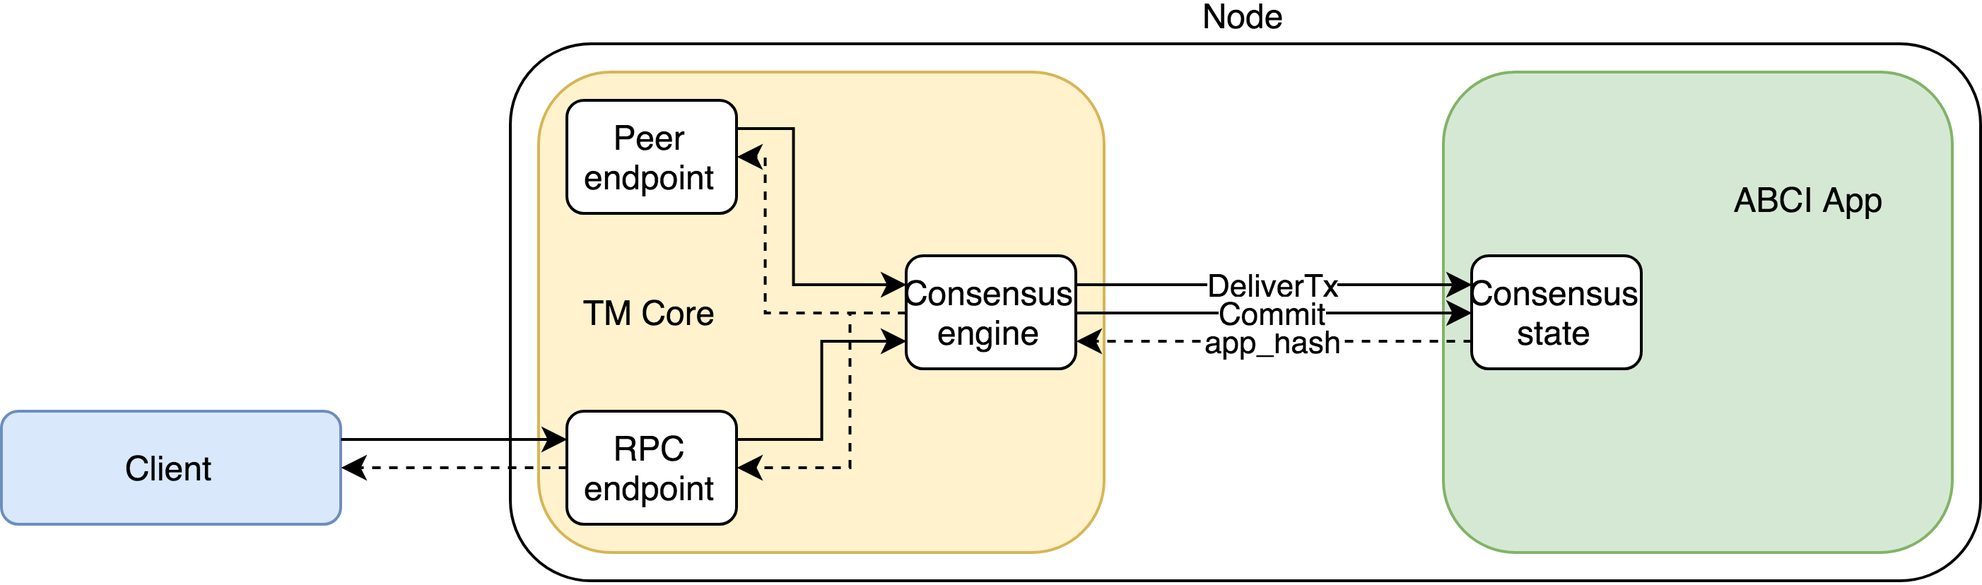
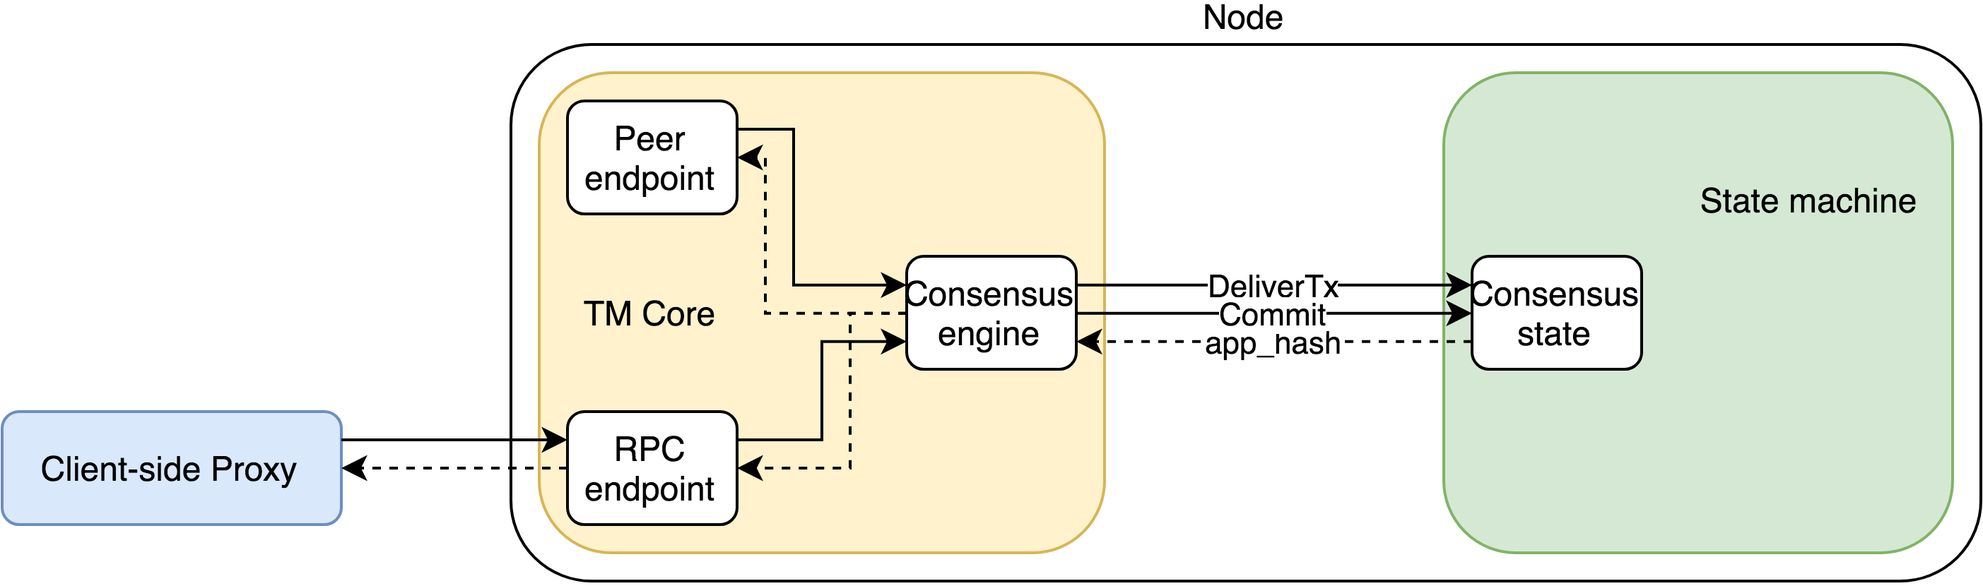
doc and built-in function changes

diff --git a/parse/parse_chain.py b/parse/parse_chain.py
@@ -41,7 +41,8 @@ for height in range(minheight, maxheight + 1):
 					txsummary += "%30s " % txstr
 			if len(txs) > 5:
 				txsummary += "..."
-		print "%5s: %s %7d %7d" % (height, datetime.datetime.fromtimestamp(blocktime), numtxs, totaltxs), "0x" + app_hash[0:6], txsummary
+		app_hash_to_show = "0x" + app_hash[0:6] if app_hash != "" else "--------"
+		print "%5s: %s %7d %7d" % (height, datetime.datetime.fromtimestamp(blocktime), numtxs, totaltxs), app_hash_to_show, txsummary
 	else:
 		if height == lastnonempty + 2:
 			print "..."

diff --git a/tmdemoapp/docs/README.md b/tmdemoapp/docs/README.md
@@ -4,7 +4,7 @@ This demo application shows how verifiable computations might be processed by a 
 
 Results of each computation are stored on the cluster nodes and can be later on retrieved by the client. The storage of the results is secured with Merkle proofs, so malicious nodes can't substitute them with bogus data.
 
-Because every computation is verified by the cluster nodes and computation outcomes are verified using Merkle proofs, the client normally doesn't have to interact with the entire cluster. Moreover, the client can interact with as little as a single node – this won't change safety properties. However, liveness might be compromised – for example if the node the client is interacting with is silently dropping incoming requests.
+Because every computation is verified by the cluster nodes and computation outcomes are verified using Merkle proofs, the client normally doesn't have to interact with the entire cluster. Moreover, the client can interact with as little as a single node – this won't change safety properties. However, liveness might be compromised – for example, if the node the client is interacting with is silently dropping incoming requests.
 
 ![Nodes in cluster](cluster_nodes.png)
 
@@ -17,7 +17,7 @@ The application is a proof-of-concept of a distributed system with the following
 * Extremely low probability of consistency violation.
 
 ## Architecture overview
-The entire application is distributed over set of machines having the following roles:
+The entire application is distributed over a set of machines having the following roles:
 * client-side **Proxy**, which originates the requests to the cluster
 * cluster **Node**, which serves the requests
 * the **Judge**, which is in charge of resolving complicated disagreements between nodes
@@ -26,15 +26,15 @@ The application uses blockchain approach to decompose the application logic into
 * replicated transaction log
 * state machine with the domain-specific logic
 
-This decomposition allows to simplify development process. This modularization is not only logical but also physical: transaction log and state machine run in separate processes, implemented in different languages.
+This decomposition allows simplifying the development process. This modularization is not only logical but also physical: transaction log and state machine run in separate processes, implemented in different languages.
 
 The application uses [Tendermint](https://github.com/tendermint/tendermint) platform which provides replicated transaction log components (**TM Core**), in particular:
 * distributed transaction cache (**Mempool**)
 * blockchain (to store transactions persistently)
-* Byzantine-resistant **Consensus** logic (to reach agreement about the order of transactions)
-* peer-to-peer layer to communicate with another nodes
-* RPC endpoint for client requests
-* **Query proxy** for making requests to the current state
+* Byzantine-resistant **Consensus** engine (to reach agreement about the order of transactions)
+* peer-to-peer layer to communicate with other nodes
+* **RPC endpoint** for client requests
+* **Query processor** for making requests to the current state
 
 To perform domain-specific logic the application uses its own **State machine** implementing Tendermint's [ABCI interface](http://tendermint.readthedocs.io/projects/tools/en/master/abci-spec.html) to follow Tendermint's architecture. It is written in Scala 2.12, compatible with `Tendermint v0.19.x` and uses `com.github.jtendermint.jabci` for Java ABCI definitions.
 
@@ -50,19 +50,19 @@ The **State machine** maintains its state using in-memory key-value string stora
 ![Key-values in cluster](cluster_key_value.png)
 
 ### Operations
-Tendermint architecture supposes that the client typically interacts with the Application via the local **Proxy**. This application uses Python `query.py` script as client-side Proxy to request arbitrary operations to the cluster, including:
+Tendermint architecture supposes that the client typically interacts with the Application via the local **Proxy**. This application uses Python `query.py` script as client-side Proxy to request arbitrary operations from the cluster, including:
 * Simple `put` requests which specify a target key and a constant as its new value: `put a/b=10`.
-* Computational `put` requests which specify that a target key should be assigned to the result of some operation (with arguments) invocation: `put a/c=factorial(a/b)`.
-* Requests to obtain a result of running an arbitrary operation: `run factorial(a/b)`, `run sum(a/b,a/c)`.
+* Computational `put` requests which specify that a target key should be assigned to the result of some function (with arguments) invocation: `put a/c=factorial(a/b)`.
+* Requests to obtain a result of running an arbitrary function: `run factorial(a/b)`, `run sum(a/b,a/c)`.
 * Requests to read the value of specified key: `get a/b`.
 
-`get` operations do not change the state of the application. They are implemented via Tendermint **ABCI queries**. As the result of a such query the **State machine** returns the value of the requested key together with the Merkle proof.
+`get` operations do not change the state of the application. They are implemented via Tendermint **ABCI queries**. As the result of such query the **State machine** returns the value of the requested key together with the Merkle proof.
 
-`put` operations are *effectful* and change the application state explicitly. They are implemented via Tendermint **transactions** that combined into **blocks**. **TM Core** sends a transaction to the **State machine** and the **State machine** applies this transaction to its state, typically changing the target key.
+`put` operations are *effectful* and change the application state explicitly. They are implemented via Tendermint **transactions** that combined into **blocks**. **TM Core** sends a transaction to the **State machine** and the **State machine** applies this transaction to its state, typically changing the associated value of the target key.
 
-`get` and `put` operations use different techniques to prove to the client that the operation is actually invoked and its result is correct. `get`-s take advantage of Merkelized structure of the application state and provide Merkle proof of the result correctness. Any `put` invocation leads to adding the corresponding transaction to the blockchain, so observing this transaction in a correctly signed block means that there is a quorum in the cluster regarding this transaction's invocation.
+`get` and `put` operations use different techniques to prove to the client that the operation is actually invoked and its result is correct. `get` takes advantage of *merkelized* structure of the application state and provides Merkle proof of the result correctness. Any `put` invocation leads to adding the corresponding transaction to the blockchain. The presence of this transaction in a correctly signed block means that there is a quorum in the cluster regarding this transaction.
 
-`run` operations are also *effectul*. They are implemented as combinations of `put` and `get` requests: to perform operation trustfully, **Proxy** first requests `put`-ting the result of operation to some key and then queries its value. Thus the correctness is ensured by both the consensus and Merkle proof.
+`run` operations are also *effectul*. They are implemented as combinations of `put` and `get` requests: to perform such operation trustfully, **Proxy** first requests `put`-ting the result of the requested function to some key and then queries its value. Thus the correctness is ensured by both the consensus and Merkle proof.
 
 ## Installation and run
 To run the App, a **Node** machine needs:
@@ -70,7 +70,7 @@ To run the App, a **Node** machine needs:
 * [Tendermint](http://tendermint.readthedocs.io/en/master/install.html)
 * GNU `screen` (to run single-machine cluster)
 
-To query Nodes from client-side proxy, a client machine needs:
+To query Nodes from the client-side proxy, a client machine needs:
 * Python 2.7 with `sha3` package installed
 
 For single-node run just launch the application:
@@ -90,7 +90,7 @@ tendermint node --consensus.create_empty_blocks=false
 
 In case Tendermint launched first, it would periodically try to connect the app until the app started. 
 
-After successful launch the client can communicate with the application via sending RPC calls to TM Core on local `46678` port.
+After a successful launch the client can communicate with the application via sending RPC calls to TM Core on local `46678` port.
 
 ### Local cluster
 There are scripts that automate deployment and running 4 Application nodes on the local machine.
@@ -109,32 +109,27 @@ Other scripts allow to temporarily stop (`node4-stop.sh`), delete (`node4-delete
 
 
 ## Sending queries
-
-### Writing operations
 Examples below use `localhost:46157` to query TM Core, for 4-node single-machine cluster requests to other endpoints (`46257`, `46357`, `46457`) behave the same way. For single-node launch (just one TM and one App) the default port is `46657`.
 
+### Writing operations
 To set a new key-value mapping use:
 ```bash
 python query.py localhost:46157 put a/b=10
-...
-OK
-HEIGHT: 2
+HEIGHT: 1
 INFO:   10
+OK
 ```
-This creates hierarchical key `a/b` (if necessary) and map it to `10`. `HEIGHT` value could be used later to verify the `INFO` by querying the blockchain.
+This creates hierarchical key `a/b` (if necessary) and maps it to `10`. `HEIGHT` value could be used later to verify the `INFO` by querying the blockchain.
 
 This script outputs the height value corresponding to the provided transaction. The height is available upon executing because `query.py` script uses `broadcast_tx_commit` RPC to send transactions to Tendermint. To query the latest transactions in the blockchain run:
 ```bash
 python parse_chain.py localhost:46157
 ```
-This command outputs last 50 non-empty blocks in the blockchain with a short summary about transactions. Here one can ensure that the provided transaction indeed included in the block with height from the response. This fact verifies that Tendermint majority (more than 2/3 of configured validator nodes) agreed on including this transaction in the mentioned block which certified by their signatures. Signature details (including information about all Consensus rounds and phases) can be found by requesting Tendermint RPC:
-```bash
-curl -s 'localhost:46157/block?height=_' # replace _ with actual height number
-```
+This command outputs the latest blocks in the blockchain with a short summary about transactions. Here one can ensure that the provided transaction indeed included in the block with height from the response. This fact verifies that Tendermint majority (more than 2/3 of configured validator nodes) agreed on including this transaction in the mentioned block which certified by their signatures.
 
-`get` operation allows to copy a value from one key to another:
+`copy` operation allows to assign a value from one key to another:
 ```bash
-python query.py localhost:46157 put "a/c=get(a/b)"
+python query.py localhost:46157 put "a/c=copy(a/b)"
 ...
 INFO:   10
 ```
@@ -173,20 +168,35 @@ python query.py localhost:46157 put "c/asum=hiersum(a)"
 INFO:   3628856
 ```
 
-Operations are not applied in case of wrong arguments (non-integer values to `increment`, `sum`, `factorial` or wrong number of arguments). Operations with a target key like `get`, `increment`, `sum`, `factorial` return the new value of the target key as `INFO`, but this value is *tentative* and cannot be trusted if the serving node is not reliable. To verify the returned `INFO` one needs to `query` the target key explicitly.
+Operations are not applied in case of wrong arguments (non-integer values to `increment`, `sum`, `factorial` or wrong number of arguments). Operations with a target key like `copy`, `increment`, `sum`, `factorial` return the new value of the target key as `INFO`, but this value is *tentative* and cannot be trusted if the serving node is not reliable. To verify the returned `INFO` one needs to `query` the target key explicitly.
 
 ### Simple queries
-`get` reads values from KVStore:
+`get` reads value associated with the argument:
 ```bash
 python query.py localhost:46157 get a/e
-...
+HEIGHT: 15
+HASH  : 75EC...
+PROOF : A7FF...
 RESULT: 23
+OK
 ```
-`ls` can be used to obtain requested key's immediate children:
+It also provides the information required to check the Merkle proof of the request: height, `app_hash` and proof itself. `OK` message at the end indicated the `RESULT` should be trusted.
+
+Note that the Tendermint blockchain stores `app_hash` from some block not in this block itself, but in the *next* block! For example. compare `HEIGHT` output (`15`) and `HASH` output (`75EC...`) from the previous query with `parse_chain` summary for 15-th and 16-th blocks:
 ```bash
-python query.py localhost:46657 ls a
+python parse_chain.py localhost:46157
+height                 block time     txs acc.txs app_hash                            tx1
+...   
+   15: 2018-06-18 12:58:18.416200       1       7 0x4E452B              c/asum=hiersum(a)
+   16: 2018-06-18 12:58:19.732695       0       7 0x75ECF6
+```
+
+Another non-changing merkelized request, `ls`, can be used to obtain argument key's immediate children list:
+```bash
+python query.py localhost:46157 ls a
 ...
 RESULT: e f b c d
+OK
 ```
 
 ### Computations without target key
@@ -198,9 +208,14 @@ As mentioned above, `run` query is a combination of subsequent:
 Below is the example (note that no target key specified here):
 ```bash
 python query.py localhost:46157 run "factorial(a/b)"
-...
+HEIGHT: 17
+HASH  : D483...
+PROOF : A7FF...
 RESULT: 3628800
+OK
 ```
+
+Note that `HEIGHT` is updated since the previous query because operation performed via Tendermint transaction. Also, Merkle proof details and the proof check status are provided, like for `get` queries.
 
 ## Implementation details
 ### A. How Proxy sees operation processing
@@ -209,12 +224,12 @@ Let's observe how `run` request processing looks like.
 2. Proxy decomposes operation into 2 interactions with cluster: transaction submit and response query.
 3. It takes some state key `opTarget` (it might use different such keys and choose one of them somehow).
 4. For transaction submit Proxy:
-	* Obtains `opTx` as `<opTarget>=<op>`. The `opTx` binary representation is *transaction* in terms of Tendermint.
+	* Obtains `opTx` as `<opTarget>=<op>`. The `opTx` binary representation is a *transaction* in terms of Tendermint.
 	* Queries some TM via RPC call: `http://<node_endpoint>/broadcast_tx_commit?tx=<opTx>`.
 	* In case of correct (without error messages and not timed out) TM response it treats `height` from it as `opHeight` and considers transaction committed (but yet not validated) and proceeds to the next step.
 5. Proxy check whether `opHeight`-th block contains `opTx` indeed:
 	* Queries `http://<node_endpoint>/block?height=<opHeight>`.
-	* In case of correct TM response it checks for `opTx` existence in transaction list section of response and checks block signature.
+	* In case of correct response from TM Core, Proxy checks for `opTx` existence in transaction list section of response and checks block signature.
 	* Upon leaving this step Proxy is sure that the cluster already performed the operation, committed it to the state, but it has no information about reaching consensus for the operation result.
 
 ![Blocks](blocks.png)
@@ -222,7 +237,7 @@ Let's observe how `run` request processing looks like.
 6. Proxy waits for `opHeight+1`-th block to ensure cluster consensus for resulting app hash:
 	* Waits some small time.
 	* Starts periodically querying `http://<node_endpoint>/block?height=<opHeight+1>`.
-	* Once getting successful response, it checks block signatures.
+	* Once getting a successful response, it checks block signatures.
 	* It also get `app_hash` for response (it corresponds to app hash after `height`-th block).
 	* Query loop in this step can be replaced with `NewBlock` subscription via WebSocket RPC.
 	* Upon leaving this step Proxy is sure that the cluster has already performed the operation, wrote it to `opTarget` and reached consensus about `opTarget` value.
@@ -242,14 +257,14 @@ Let's look how Tendermint on some node (say, N) treats transaction submit (step 
 	* Also Mempool caches the transaction (in order to not accept repeated broadcasts of `opTx`).
 ![Mempool processing](beh_mempool.png)
 3. Consensus processing:
-	* When the current TM *proposer* (this is some cluster node, not N in common case) is ready to create a new block, it grabs some amount of the earliest yet not committed transactions from local Mempool. If the transaction rate is intensive enough or even exceed TM/App throughput, it is possible that `opTx` may 'wait' during several block formation before it would be grabbed by Consensus.
-	* As soon as `opTx` and other transactions reach Consensus module, block election starts. Proposer creates block proposal (that describes all transactions in the current block) for current *round*, then other nodes make votes. In order to reach consensus for the block, the election should pass all consensus stages (propose, pre-vote, pre-commit) with the majority of TM votes (more that 2/3 of cluster nodes). If it doesn't work for some reason (votes timeout, Byzantive proposer), proposer changed and a new round starts (possibly with another transaction set for the current block).
+	* When the current TM **proposer** (this is some cluster node, not N in common case) is ready to create a new block, it grabs some amount of the earliest yet not committed transactions from local Mempool. If the transaction rate is intensive enough or even exceed TM/App throughput, it is possible that `opTx` may 'wait' during several block formation before it would be grabbed by Consensus.
+	* As soon as `opTx` and other transactions reach Consensus module, block election starts. The proposer creates block proposal (that describes all transactions in the current block) for the current *round*, then other nodes make votes. In order to reach consensus for the block, the election should pass all consensus stages (propose, pre-vote, pre-commit) with the majority of TM votes (more that 2/3 of cluster nodes). If it doesn't work for some reason (votes timeout, Byzantive proposer), the proposer is changed and a new round starts (possibly with another transaction set for the current block).
 4. Post-consensus interaction with the local App:
 	* When election successfully passed all stages each correct TM understands that consensus is reached. Then it invokes App's ABCI methods: `BeginBlock`, `DeliverTx` (for each transaction), `EndBlock`, `Commit`.
 	* An information from `DeliverTx` call then sent back to Proxy
 	* `app_hash` field from `Commit` call is stored by TM before making the next block.
 ![Consensus processing](beh_consensus.png)
-5. The new, `height`-th, block metadata and transaction set now committed and becomes available via RPC's like `block`, `blockchain`, `status` (including call in Step A5). However the recently obtained from App block's app hash yet not stored in the blockchain (because an App hash for some block is stored in the blockchain metadata for the next block).
+5. The new, `height`-th, block metadata and transaction set now committed and becomes available via RPC's like `block`, `blockchain`, `status` (including call in Step A5). However, the recently obtained from App block's app hash yet not stored in the blockchain (because an App hash for some block is stored in the blockchain metadata for the next block).
 6. Next block processing:
 	* Steps B2-B5 repeated for the next, `height+1`-th block. It may take some time, depending on new transactions availability and rate and commit timeout settings.
 	* The consensus for `height+1`-th block is only possible if the majority (more than 2/3 of TM's) agree about `height`-th block app hash. So `app_hash` information in `height+1`-th block header refers to `app_hash` provided on Step B4 for `height`-th block (which is checked on Step A6).
@@ -257,7 +272,7 @@ Let's look how Tendermint on some node (say, N) treats transaction submit (step 
 ### C. How ABCI App sees transaction submit
 Now we dig into details of processing the transaction on App side (on node N).
 1. On Step B2 TM asks App via `CheckTx` call. This is lightweight checking that works well if some signification part of transactions might be rejected by App by some reason (for example it becomes inconsistent after applying some recently committed other transaction). This allows avoiding unnecessary transaction gossip and need of permanent storing such incorrect transaction in the blockchain after commit.
-	* In case `CheckTx` invoked once but `opTx` is not grabbed by proposer's Consensus module for the next block, `CheckTx` reinvoked for every subsequent block until `opTx` eventually grabbed by proposer (because after some block commit, `opTx` might become incorrect and need to be `CheckTx`-ed).
+	* In case `CheckTx` invoked once but `opTx` is not grabbed by the proposer's Consensus module for the next block, `CheckTx` reinvoked for every subsequent block until `opTx` eventually grabbed by the proposer (because after some block commit, `opTx` might become incorrect and need to be `CheckTx`-ed).
 2. On Step B4 TM invokes App's ABCI `DeliverTx` method.
 	* App can reject the transaction (it's OK because lightweight `CheckTx` cannot check any possible failure cases) and avoid to change anything. It this case TM would store the transaction anyway because the block already formed.
 	* Normally App applies the transaction to the state. It maintains the 'real-time' state that already applied all previous changes not only from previous blocks' transactions but even for all previous transactions of the current block.
@@ -277,7 +292,7 @@ Query processing on the App performed in the following way:
 	* Otherwise it applies the query to the corresponding state. Queries might be complex enough but not every query might be proved efficiently. Therefore it's expected that queries are relatively simple like specific value's read or hierarchical structure scan.
 	* In case of read query on Step A7, App just reads `opTarget` value previously written by applying `opTx` and committed in `height`-th block.
 3. If proof flag requested (as on Step A7), App also produce Merkle path (or some other provable information) that supply `opTarget` value verification with respect to given `height` and it's app hash (from `height+1` block metadata)
-4. The response containing the value, Merkle proof and any other information sent back to the local TM.
+4. The response containing the value, Merkle proof, and any other information sent back to the local TM.
 
 ### Transactions and Merkle hashes
 Examples above usually demonstrate a single transaction per block or empty blocks. Note that the App does not recalculate Merkle hashes during `DeliverTx` processing. In case of several transactions per block (when massive broadcasting of multiple transactions via `broadcast_tx_sync` or `broadcast_tx_async` RPCs performed), the App modifies key tree and marks changed paths by clearing Merkle hashes until ABCI `Commit` processing.
@@ -296,22 +311,22 @@ The examples below illustrate different situations when cluster's liveness and s
 ### Dispute case 1: some nodes honest, some not, no quorum
 When the last block is `height`-th and there is no quorum (neither honest nor Byzantine) for `height+1`-th block's voting, liveness is violated and new blocks cannot be formed. Such situation might happen if the cluster cannot reach an agreement about next block. Even if TM Core works as expected, different Apps on different nodes might provide to local TM's different app hashes for `height`-th block.
 
-To simulate `app_hash` disputes in 4-node cluster the App uses special key `wrong`. Every node's App (indexed 1 to 4 which corresponds to their ports `46158`, `46258`, `46358`, `46458`) interprets any occurrence of its own index in `wrong` value as the flag to provide *wrong* `app_hash` to TM Core. This convention works well to illustrate Dispute case 1. First, let's try using `tx` to submit new `wrong` value:
+To simulate `app_hash` disputes in 4-node cluster the App uses special key `wrong`. Every node's App (indexed 1 to 4 which corresponds to their ports `46158`, `46258`, `46358`, `46458`) interprets any occurrence of its own index in `wrong` value as the flag to provide *wrong* `app_hash` to TM Core. This convention works well to illustrate Dispute case 1. First, let's try using `put` to submit new `wrong` value:
 ```bash
-python query.py localhost:46157 tx wrong=34
+python query.py localhost:46157 put wrong=34
 HEIGHT: 3
 INFO:   34
 OK
 ```
-This invocation return info `34` and `OK` status. At first glance, everything is well because `height`-th (the 3rd actually) block formed and `INFO` equal to new value `34` got. However this `INFO` should be considered as *tentative* because despite successful the 3rd block formation it's needed to wait for the 4th block that should contain `app_hash` for 3rd block. Note that the source of `INFO` is just output of `DeliverTx` from single App and this output is neither merkelized nor signed by other nodes.
+This invocation return info `34` and `OK` status. At first glance, everything is well because `height`-th (the 3rd actually) block formed and `INFO` equal to new value `34` got. However, this `INFO` should be considered as *tentative* because despite successful the 3rd block formation it's needed to wait for the 4th block that should contain `app_hash` for 3rd block. Note that the source of `INFO` is just output of `DeliverTx` from single App and this output is neither merkelized nor signed by other nodes.
 
-Now the blockchain has inconsistent state. Let's reset it via `node4-reset.sh`, wait some time for cluster initialization and use another command, `txverify`:
+Now the blockchain has inconsistent state. Let's reset it via `node4-reset.sh`, wait some time for cluster initialization and use another command, checked writing operation `chput`:
 ```bash
-python query.py localhost:46157 txverify wrong=34
+python query.py localhost:46157 chput wrong=34
 HEIGHT: 3
 BAD   : Cannot verify tentative result '34'!
 ```
-`txverify` waits for `height+1`-th block before responding. This behavior is similar to `op` command logic. As before 3rd block formation is successful but it's not enough for `txverify`, it waits for 4th block. After some timeout, it responds that this block is still not available, so tentative `34` value is not confirmed.
+`chput` waits for `height+1`-th block before responding. This behavior is similar to `op` command logic. As before 3rd block formation is successful but it's not enough for `chput`, it waits for 4th block. After some timeout, it responds that this block is still not available, so tentative `34` value is not confirmed.
 
 The App itself also monitors block creation. By checking it (`screen -x app1`) one can observe the following message in the App's log:
 ```
@@ -322,11 +337,11 @@ This message produced by Monitor thread of the App that checks the following con
 ### Dispute case 2: dishonest quorum, minority of honest nodes
 This case can also be illustrated using `wrong` key:
 ```bash
-python query.py localhost:46157 txverify wrong=234
+python query.py localhost:46157 chput wrong=234
 HEIGHT: 3
 BAD   : Cannot verify tentative result '234'!
 ```
-This message is the same as before but the situation is different actually. All nodes except Node 1 return wrong app hash to its TM's, but now those 'wrong' nodes have quorum! Therefore the result is not confirmed only from the point of view of Node 1. By checking it's log (`screen -x app1`) another Monitor warning can be observed:
+This message is the same as before but the situation is different actually. All nodes except Node 1 return wrong app hash to its TM's, but now those 'wrong' nodes have a quorum! Therefore the result is not confirmed only from the point of view of Node 1. By checking it's log (`screen -x app1`) another Monitor warning can be observed:
 ```
 DISAGREEMENT WITH CLUSTER QUORUM!
 ```
@@ -334,24 +349,24 @@ To achieve this detection the App's Monitor periodically requests its peer's TM 
 
 Let's reset the cluster and try again, submit the same transaction, but connect to another node:
 ```bash
-python query.py localhost:46257 txverify wrong=234
+python query.py localhost:46257 chput wrong=234
 HEIGHT: 3
 OK
 RESULT: 234
-PROOF : a7ff...
+PROOF : A7FF...
 ```
 As expected, from the point of view of 'wrong' nodes everything is OK and tentative result is confirmed later by querying `wrong` key with merkelizing explicitly.
 
-This example shows that in presence of dishonest quorum Tendermint safety is violated and the blockchain is in a falsified state. However, for production system, the App's Monitor can efficiently detect such problem and raise the dispute to the Supervisor.
+This example shows that in presence of the dishonest quorum Tendermint safety is violated and the blockchain is in a falsified state. However, for a production system, the App's Monitor can efficiently detect such problem and raise the dispute to the Supervisor.
 
 ### Dispute case 3: honest quorum, some nodes dishonest or not available
 When quorum (2/3+ nodes of the cluster) exists availability of other nodes does not influence cluster's safety or liveness. This demo app does not implement any special checks for the existence of nodes absent or Byzantine during operation processing. Let's illustrate this using `wrong` key:
 ```bash
-python query.py localhost:46157 txverify wrong=4
+python query.py localhost:46157 chput wrong=4
 HEIGHT: 3
 OK
 RESULT: 4
-PROOF : a7ff...
+PROOF : A7FF...
 ```
 
 It's supposed that if some node disagrees with the quorum, it needs to alert itself like for Dispute case 2, so cases 2 and 3 are symmetric in general.
